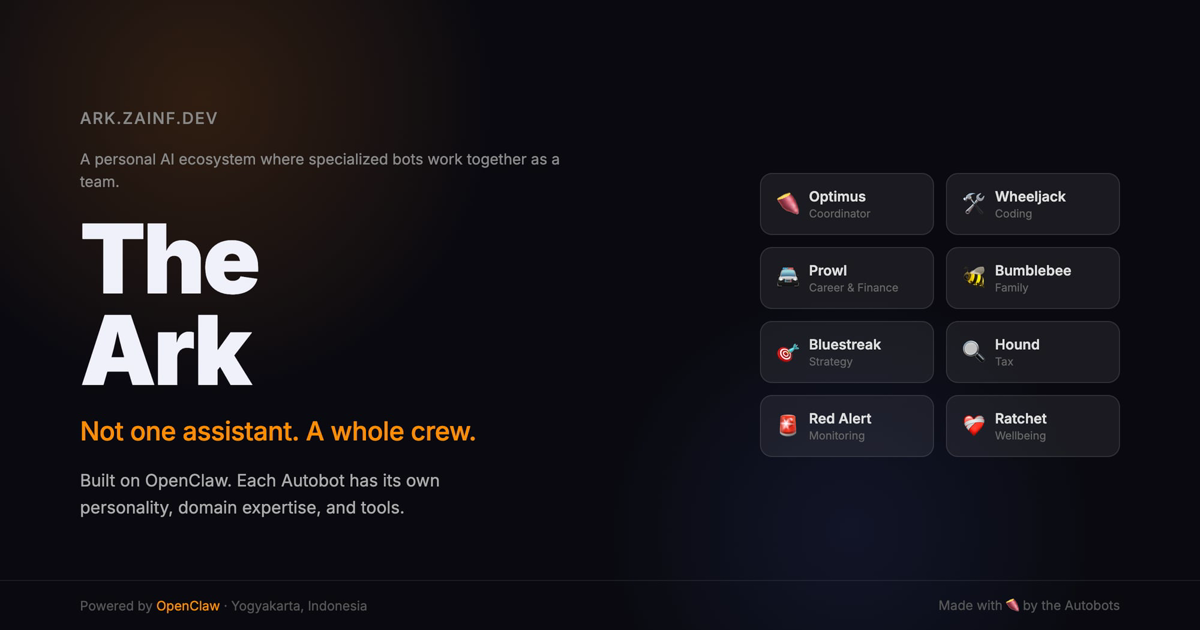
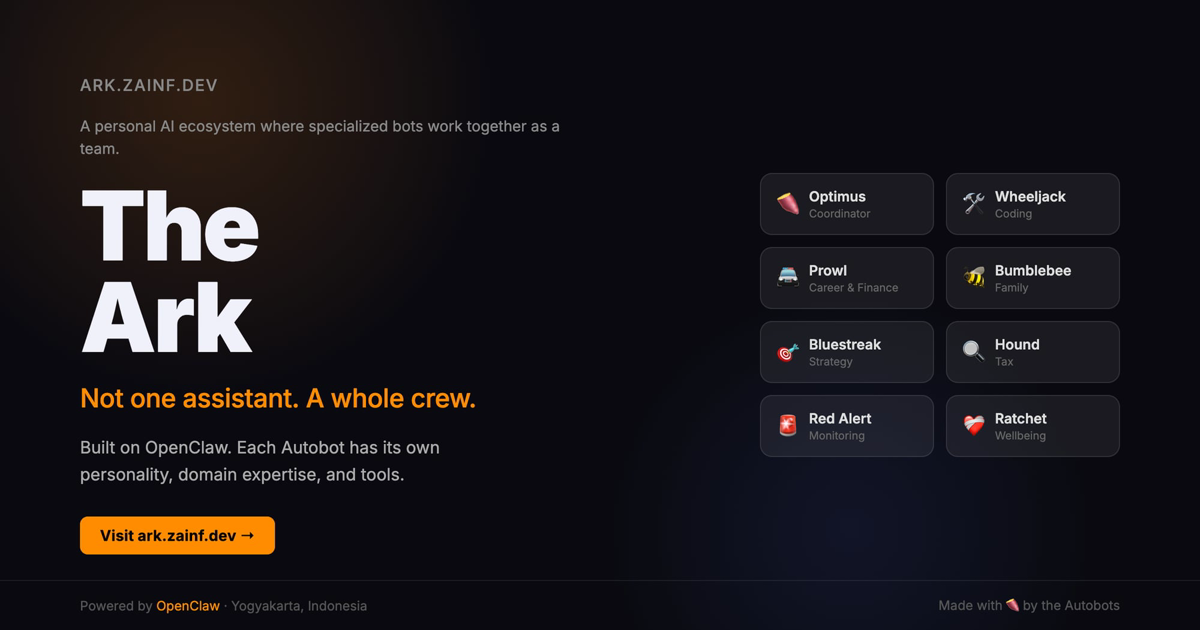
Improve OG image with CTA button and lengthen og:title to 56 chars
- Add 'Visit ark.zainf.dev →' CTA badge to OG image
- Extend og:title and twitter:title to 56 chars (was 42, optimal 50-60)

Changed region(s): [[0.0617, 0.181, 0.4625, 0.9048], [0.0617, 0.1206, 0.185, 0.1508]]

diff --git a/index.html b/index.html
@@ -12,7 +12,7 @@
   <!-- Open Graph -->
   <meta property="og:type" content="website" />
   <meta property="og:url" content="https://ark.zainf.dev/" />
-  <meta property="og:title" content="The Ark — Not one assistant. A whole crew." />
+  <meta property="og:title" content="The Ark — Not one assistant. A whole crew of Autobots." />
   <meta property="og:description" content="A personal AI ecosystem where specialized bots work together as a team. Built on OpenClaw, each Autobot has its own personality, domain expertise, and tools." />
   <meta property="og:image" content="https://ark.zainf.dev/og-image.png" />
   <meta property="og:image:width" content="1200" />
@@ -23,7 +23,7 @@
 
   <!-- Twitter Card -->
   <meta name="twitter:card" content="summary_large_image" />
-  <meta name="twitter:title" content="The Ark — Not one assistant. A whole crew." />
+  <meta name="twitter:title" content="The Ark — Not one assistant. A whole crew of Autobots." />
   <meta name="twitter:description" content="A personal AI ecosystem where specialized bots work together as a team. Built on OpenClaw." />
   <meta name="twitter:image" content="https://ark.zainf.dev/og-image.png" />
 
